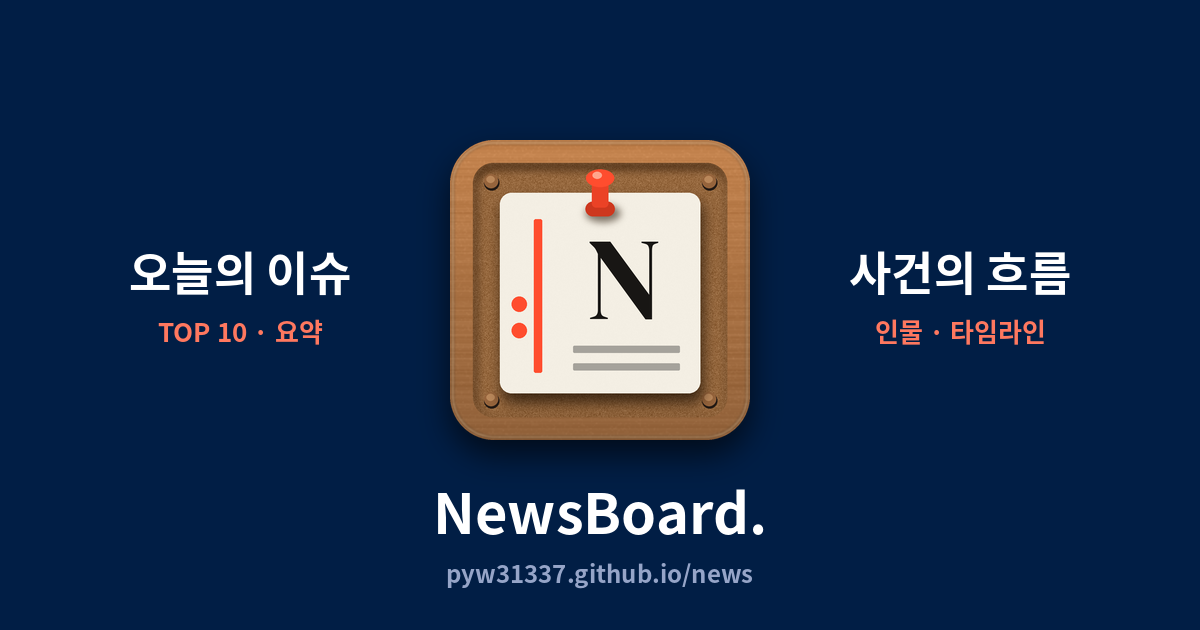
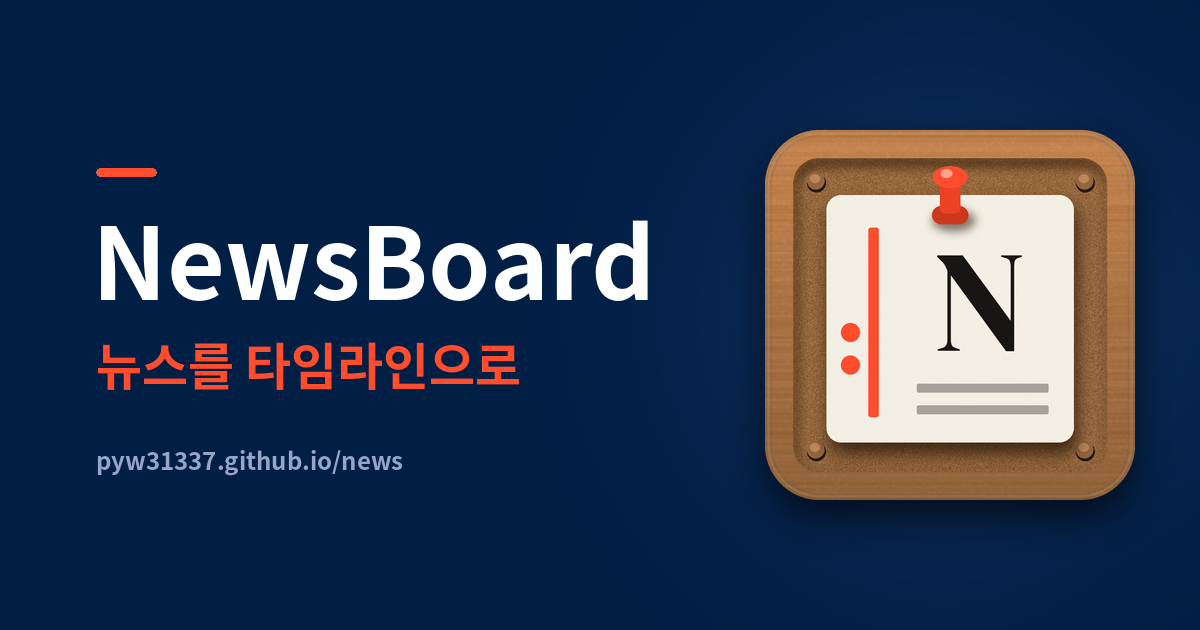
OG 이미지 재구성(좌측 타이틀·태그라인, 우측 아이콘) + 투명 배경 파비콘, SW nb-v9

diff --git a/politicians/index.html b/politicians/index.html
@@ -6,12 +6,12 @@
 <meta name="viewport" content="width=device-width,initial-scale=1,viewport-fit=cover">
 <title>정치인 DB · NewsBoard</title>
 <meta name="description" content="역대 국회의원 전원의 당선·정당 이력, 발의 법안, 뉴스 타임라인을 출처와 함께 정리한 공인 데이터베이스">
-<meta property="og:type" content="website"><meta property="og:site_name" content="NewsBoard"><meta property="og:title" content="정치인 DB — 역대 국회의원 타임라인"><meta property="og:description" content="당선·정당 이력, 발의 법안, 뉴스 타임라인을 출처와 함께"><meta property="og:image" content="https://pyw31337.github.io/news/og-image.png?v=8"><meta property="og:url" content="https://pyw31337.github.io/news/politicians/">
+<meta property="og:type" content="website"><meta property="og:site_name" content="NewsBoard"><meta property="og:title" content="정치인 DB — 역대 국회의원 타임라인"><meta property="og:description" content="당선·정당 이력, 발의 법안, 뉴스 타임라인을 출처와 함께"><meta property="og:image" content="https://pyw31337.github.io/news/og-image.png?v=9"><meta property="og:url" content="https://pyw31337.github.io/news/politicians/">
 <meta name="theme-color" content="#0f1630">
 <meta name="referrer" content="no-referrer">
 <link rel="manifest" href="manifest.webmanifest">
-<link rel="icon" href="icons/favicon-32.png?v=8" sizes="32x32"><link rel="icon" href="icons/icon-192.png?v=8" sizes="192x192">
-<link rel="apple-touch-icon" href="icons/apple-touch-icon.png?v=8">
+<link rel="icon" href="../favicon.ico?v=9" sizes="any"><link rel="icon" type="image/png" href="../icons/favicon-32.png?v=9" sizes="32x32"><link rel="icon" type="image/png" href="../icons/favicon-16.png?v=9" sizes="16x16">
+<link rel="apple-touch-icon" href="../icons/apple-touch-icon.png?v=8">
 <meta name="apple-mobile-web-app-capable" content="yes">
 <meta name="mobile-web-app-capable" content="yes">
 <meta name="apple-mobile-web-app-status-bar-style" content="black-translucent">

diff --git a/index.html b/index.html
@@ -11,7 +11,7 @@
 <meta property="og:site_name" content="NewsBoard">
 <meta property="og:title" content="NewsBoard — 오늘의 이슈와 사건의 흐름">
 <meta property="og:description" content="포털에서 가장 많이 회자된 오늘의 이슈 10개와, 인물·장소·사건을 따라가는 타임라인">
-<meta property="og:image" content="https://pyw31337.github.io/news/og-image.png?v=8">
+<meta property="og:image" content="https://pyw31337.github.io/news/og-image.png?v=9">
 <meta property="og:image:width" content="1200"><meta property="og:image:height" content="630">
 <meta property="og:url" content="https://pyw31337.github.io/news/">
 <meta property="og:locale" content="ko_KR">
@@ -21,7 +21,7 @@
 <meta name="theme-color" content="#0f1630">
 <meta name="referrer" content="no-referrer">
 <link rel="manifest" href="manifest.webmanifest">
-<link rel="icon" href="icons/favicon-32.png?v=8" sizes="32x32"><link rel="icon" href="icons/icon-192.png?v=8" sizes="192x192">
+<link rel="icon" href="favicon.ico?v=9" sizes="any"><link rel="icon" type="image/png" href="icons/favicon-32.png?v=9" sizes="32x32"><link rel="icon" type="image/png" href="icons/favicon-16.png?v=9" sizes="16x16">
 <link rel="apple-touch-icon" href="icons/apple-touch-icon.png?v=8">
 <meta name="apple-mobile-web-app-capable" content="yes">
 <meta name="mobile-web-app-capable" content="yes">

diff --git a/sw.js b/sw.js
@@ -1,4 +1,4 @@
-const V='nb-v8',SHELL=['./','index.html','assets/style.css?v=7','assets/app.js?v=7','manifest.webmanifest','icons/icon-192.png','og-image.png'];
+const V='nb-v9',SHELL=['./','index.html','assets/style.css?v=7','assets/app.js?v=7','manifest.webmanifest','icons/icon-192.png','og-image.png','favicon.ico'];
 self.addEventListener('install',e=>{e.waitUntil(caches.open(V).then(c=>c.addAll(SHELL)));self.skipWaiting()});
 self.addEventListener('activate',e=>{e.waitUntil(caches.keys().then(ks=>Promise.all(ks.filter(k=>k!==V).map(k=>caches.delete(k)))));self.clients.claim()});
 self.addEventListener('fetch',e=>{const u=new URL(e.request.url);if(e.request.method!=='GET'||u.origin!==location.origin)return;

diff --git a/admin/index.html b/admin/index.html
@@ -8,7 +8,7 @@
 <meta name="referrer" content="no-referrer">
 <meta name="theme-color" content="#0f1630">
 <title>NewsBoard 관리자</title>
-<link rel="icon" href="../icons/favicon-32.png?v=8">
+<link rel="icon" href="../favicon.ico?v=9" sizes="any"><link rel="icon" type="image/png" href="../icons/favicon-32.png?v=9" sizes="32x32"><link rel="icon" type="image/png" href="../icons/favicon-16.png?v=9" sizes="16x16">
 <link rel="stylesheet" href="https://cdn.jsdelivr.net/gh/orioncactus/pretendard@v1.3.9/dist/web/variable/pretendardvariable-dynamic-subset.min.css">
 <link rel="stylesheet" href="admin.css?v=1">
 </head>

diff --git a/scripts/make_icons.py b/scripts/make_icons.py
@@ -18,14 +18,28 @@ def icon(n, ratio=.56): return place(Image.new('RGB', (n, n), NAVY), (n / 2, n /
 I = os.path.join(R, 'icons'); os.makedirs(I, exist_ok=True)
 icon(512).save(os.path.join(I, 'icon-512.png')); icon(192).save(os.path.join(I, 'icon-192.png'))
 icon(512, .50).save(os.path.join(I, 'maskable-512.png'))  # 마스킹 안전영역
-icon(180).save(os.path.join(I, 'apple-touch-icon.png')); icon(32, .9).save(os.path.join(I, 'favicon-32.png'))
-og = place(Image.new('RGB', (1200, 630), NAVY), (600, 290), 300); d = ImageDraw.Draw(og)
-def F(s):
-    for p in ('/usr/share/fonts/opentype/noto/NotoSansCJK-Bold.ttc', '/System/Library/Fonts/AppleSDGothicNeo.ttc'):
+icon(180).save(os.path.join(I, 'apple-touch-icon.png'))
+# 파비콘: 네이비 배경 없이 오브젝트만(투명 배경)
+from PIL import ImageEnhance
+def fav(n):
+    w = n; h = int(n * obj.height / obj.width); o = obj.resize((w, h), Image.LANCZOS)
+    if n <= 48: o = ImageEnhance.Sharpness(o).enhance(1.6)
+    c = Image.new('RGBA', (n, n), (0, 0, 0, 0)); c.paste(o, (0, (n - h) // 2), o); return c
+fav(512).save(os.path.join(I, 'favicon-512.png')); fav(32).save(os.path.join(I, 'favicon-32.png')); fav(16).save(os.path.join(I, 'favicon-16.png'))
+fav(48).save(os.path.join(R, 'favicon.ico'), sizes=[(16, 16), (32, 32), (48, 48)], append_images=[fav(16), fav(32)])
+def F(s, w='Black'):
+    for p in (f'/usr/share/fonts/opentype/noto/NotoSansCJK-{w}.ttc', '/usr/share/fonts/opentype/noto/NotoSansCJK-Bold.ttc', '/System/Library/Fonts/AppleSDGothicNeo.ttc'):
         try: return ImageFont.truetype(p, s, index=1 if 'Noto' in p else 0)
         except Exception: pass
     return ImageFont.load_default()
-d.text((240, 270), '오늘의 이슈', font=F(46), fill='white', anchor='mm'); d.text((240, 330), 'TOP 10 · 요약', font=F(26), fill=(255, 120, 95), anchor='mm')
-d.text((960, 270), '사건의 흐름', font=F(46), fill='white', anchor='mm'); d.text((960, 330), '인물 · 타임라인', font=F(26), fill=(255, 120, 95), anchor='mm')
-d.text((600, 510), 'NewsBoard.', font=F(56), fill='white', anchor='mm'); d.text((600, 572), 'pyw31337.github.io/news', font=F(24), fill=(150, 165, 200), anchor='mm')
+# OG: 좌측 타이틀 + 주황 태그라인, 우측 아이콘
+og = Image.new('RGB', (1200, 630), NAVY)
+glow = Image.new('L', og.size, 0); ImageDraw.Draw(glow).ellipse((700, 70, 1180, 550), fill=70)
+og.paste((40, 80, 140), (0, 0), glow.filter(ImageFilter.GaussianBlur(90)))
+place(og, (950, 315), 370); d = ImageDraw.Draw(og)
+OR = (255, 77, 46)
+d.rounded_rectangle((96, 168, 156, 176), 4, fill=OR)
+d.text((92, 300), 'NewsBoard', font=F(100), fill='white', anchor='ls')
+d.text((96, 385), '뉴스를 타임라인으로', font=F(50, 'Bold'), fill=OR, anchor='ls')
+d.text((96, 470), 'pyw31337.github.io/news', font=F(24, 'Medium'), fill=(150, 165, 200), anchor='ls')
 og.save(os.path.join(R, 'og-image.png')); print('ok')

diff --git a/scripts/build_pages.py b/scripts/build_pages.py
@@ -5,7 +5,7 @@ import json, os, re, sys, html
 SITE = sys.argv[1] if len(sys.argv) > 1 else '_site'
 ORIGIN = 'https://pyw31337.github.io/news/'
 T = open(os.path.join(SITE, 'index.html'), encoding='utf-8').read()
-DEF_IMG = ORIGIN + 'og-image.png'
+DEF_IMG = ORIGIN + 'og-image.png?v=9'
 def load(p):
     try: return json.load(open(p, encoding='utf-8'))
     except Exception: return {}
